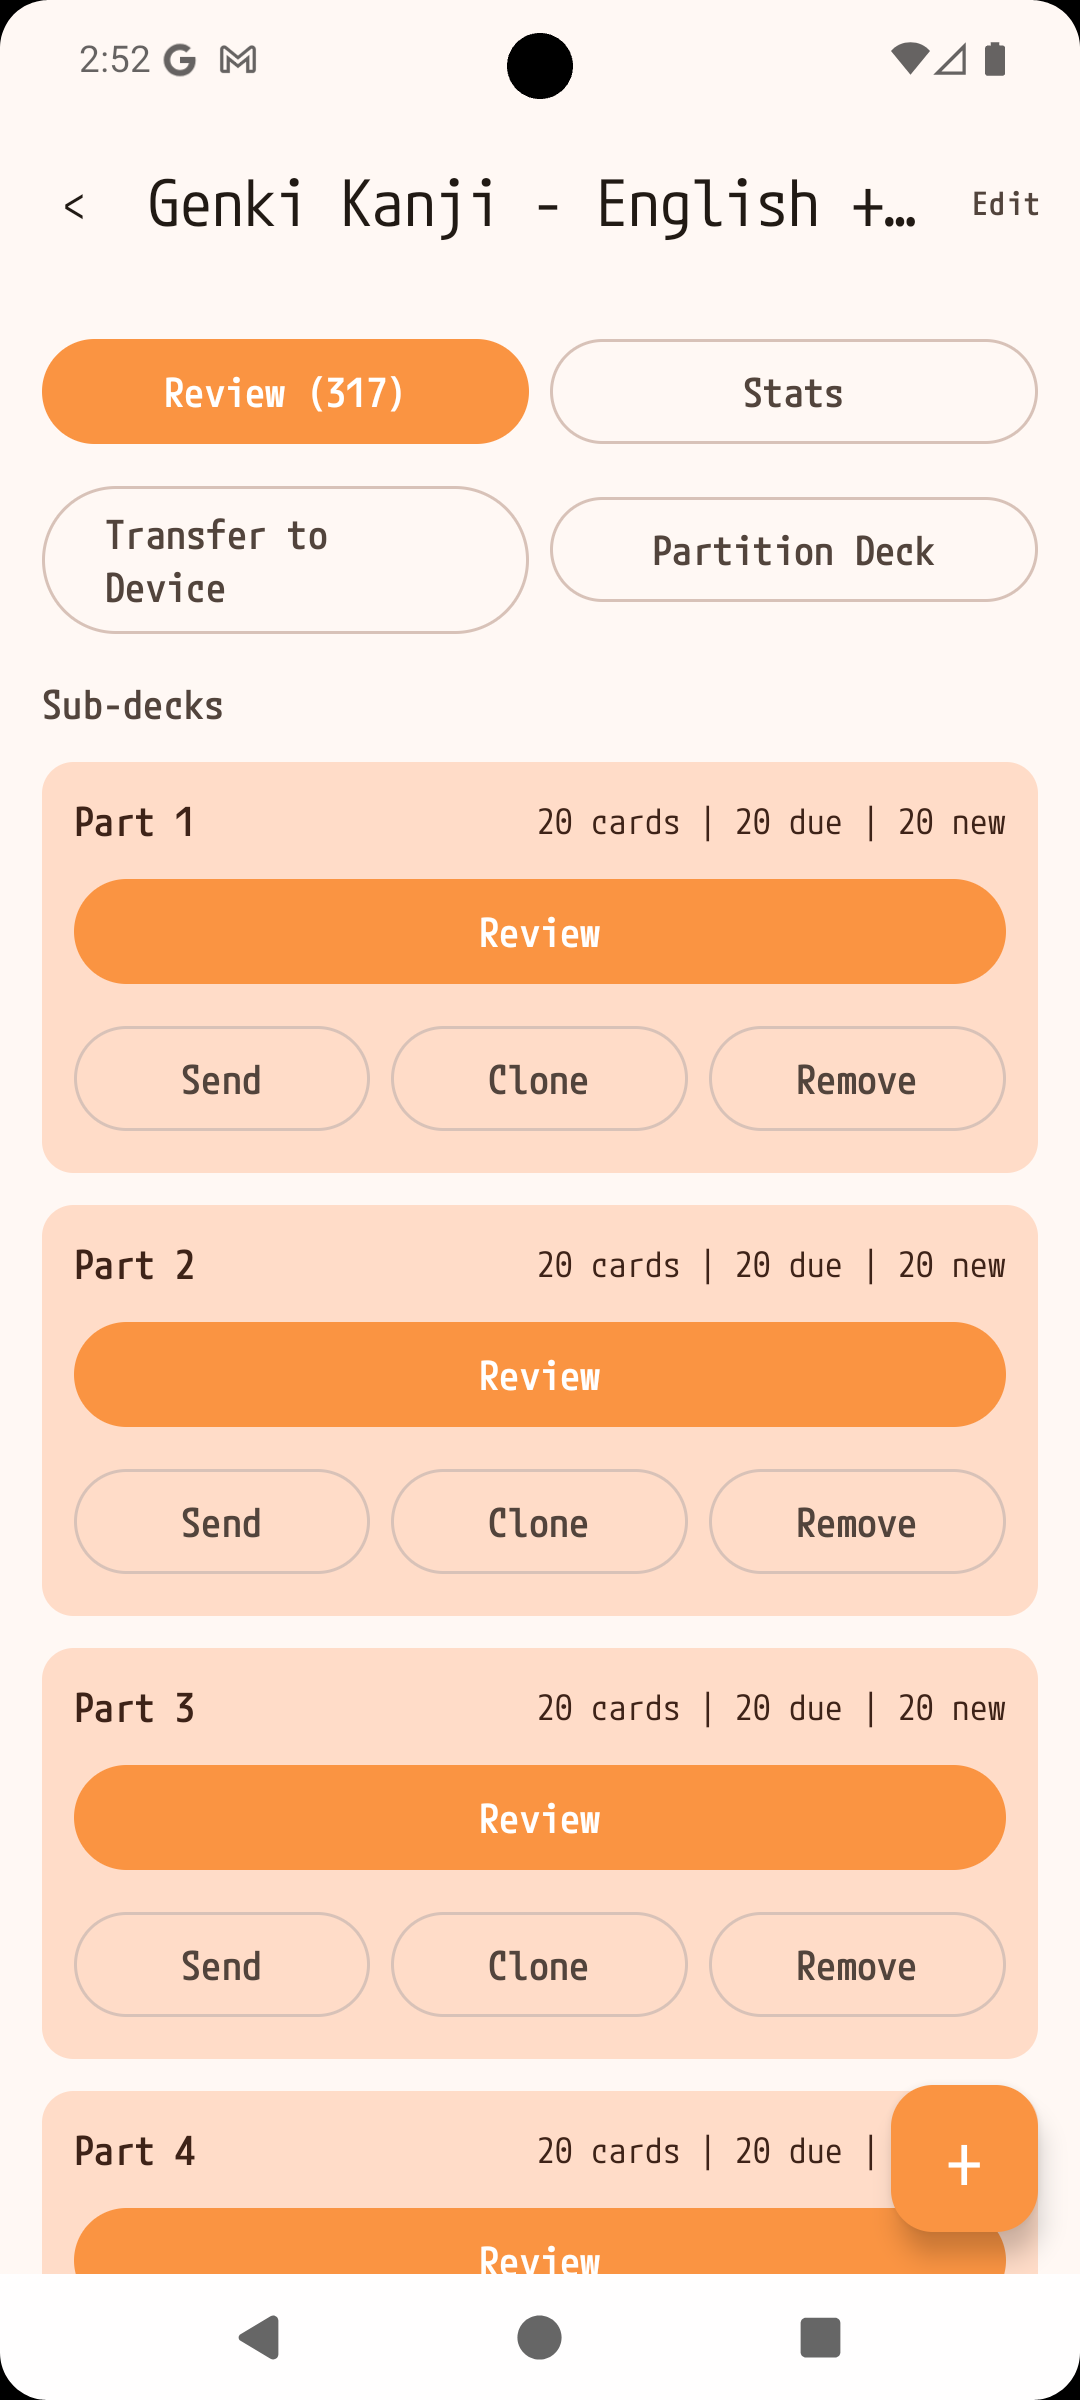
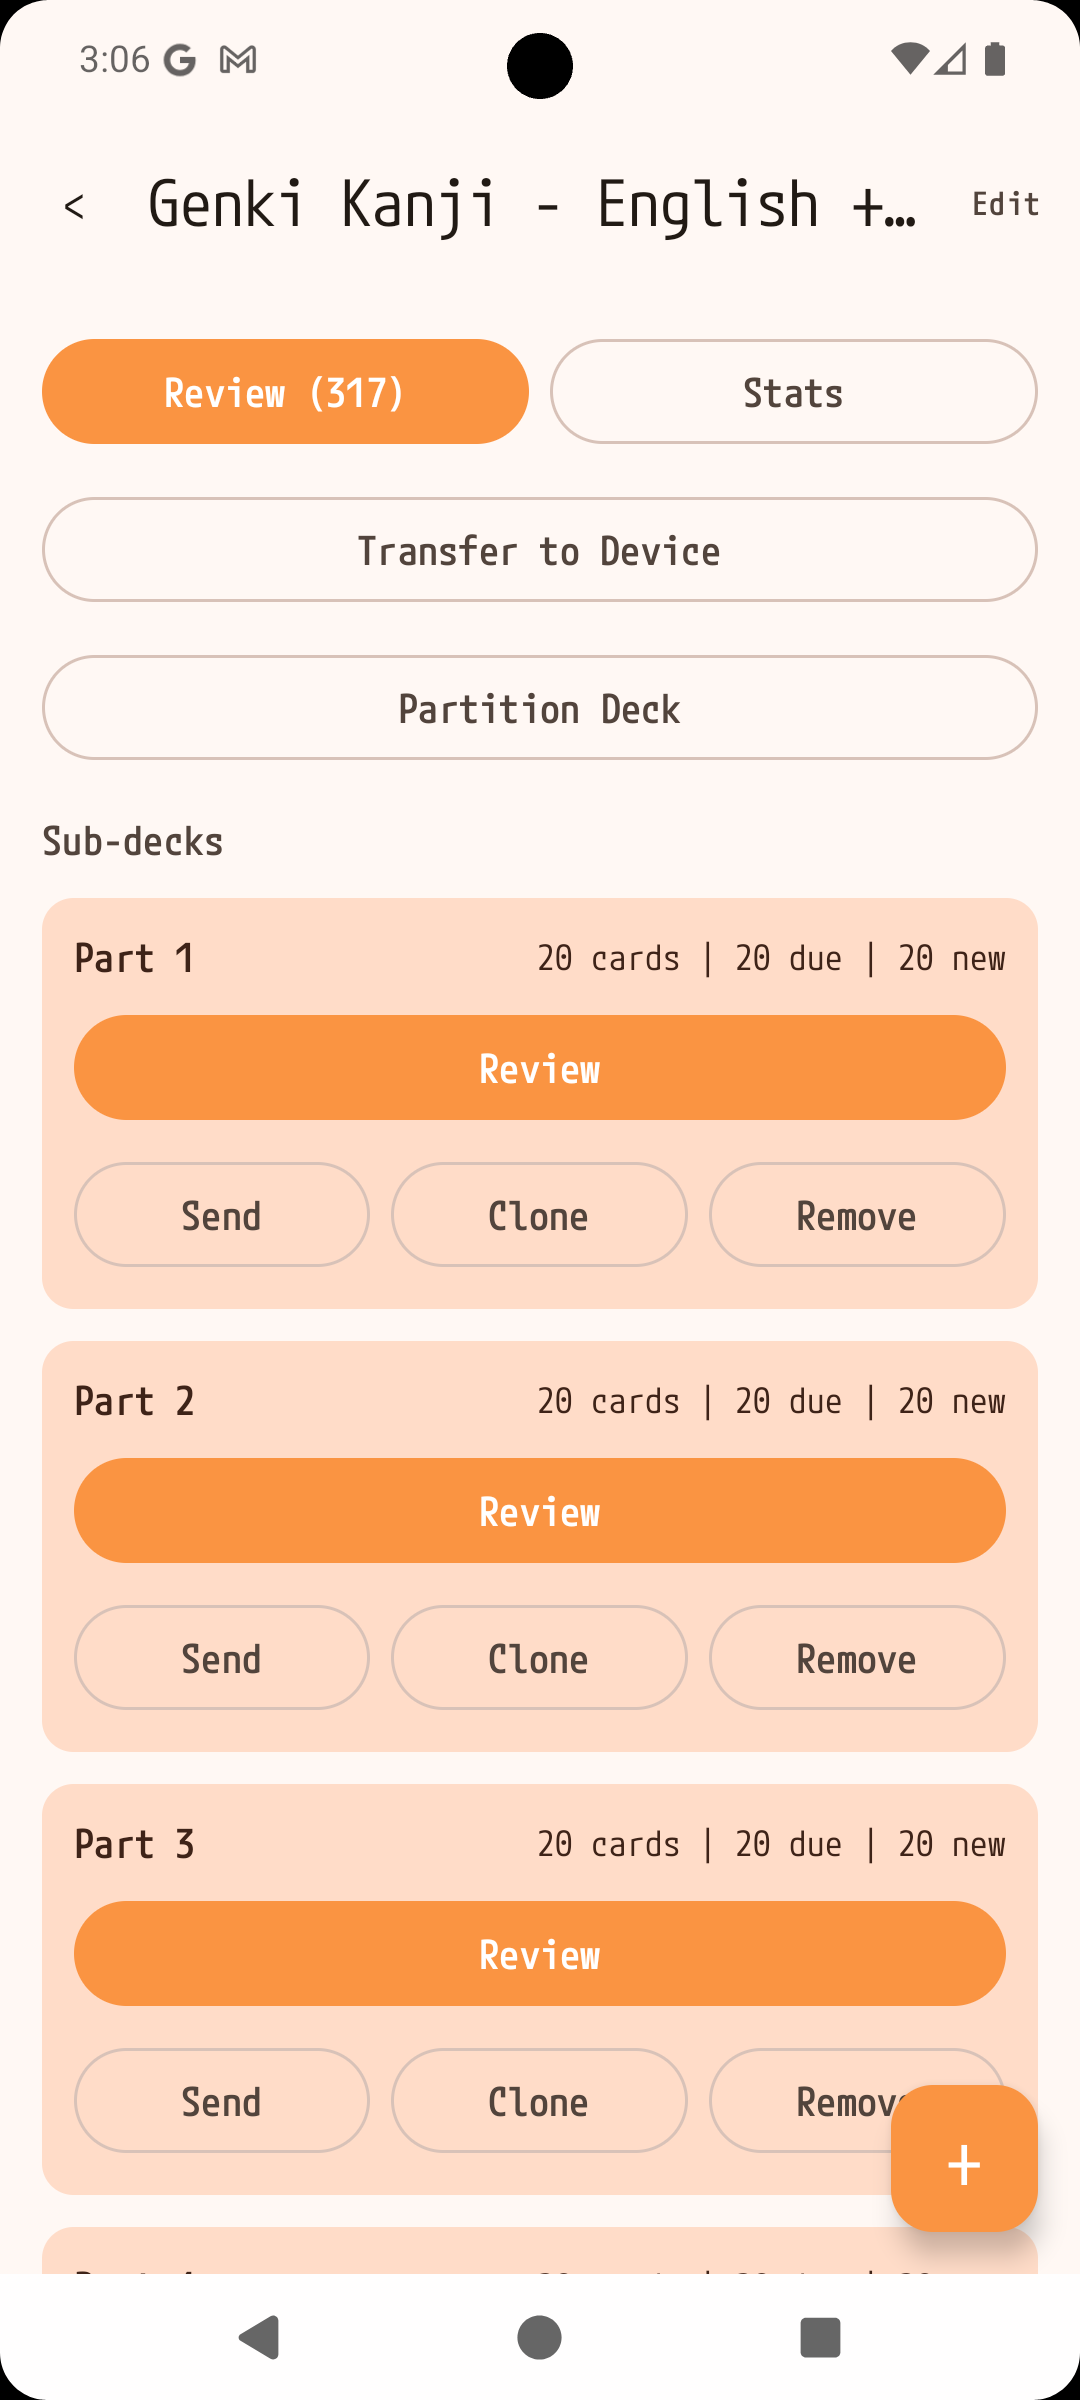
small ui fixes
Mirrored from f7cf7f3

diff --git a/composeApp/src/commonMain/kotlin/com/kado/app/presentation/screens/review/ReviewScreen.kt b/composeApp/src/commonMain/kotlin/com/kado/app/presentation/screens/review/ReviewScreen.kt
@@ -8,8 +8,11 @@ import androidx.compose.foundation.layout.Arrangement
 import androidx.compose.foundation.layout.Column
 import androidx.compose.foundation.layout.Spacer
 import androidx.compose.foundation.layout.fillMaxSize
+import androidx.compose.foundation.layout.fillMaxWidth
 import androidx.compose.foundation.layout.height
 import androidx.compose.foundation.layout.padding
+import androidx.compose.foundation.rememberScrollState
+import androidx.compose.foundation.verticalScroll
 import androidx.compose.material3.Button
 import androidx.compose.material3.MaterialTheme
 import androidx.compose.material3.Scaffold
@@ -58,22 +61,20 @@ fun ReviewScreen(
             uiState.currentCard != null -> {
                 val card = uiState.currentCard!!
                 Column(
-                    modifier = Modifier.fillMaxSize().padding(padding).padding(16.dp),
+                    modifier = Modifier
+                        .fillMaxSize()
+                        .verticalScroll(rememberScrollState())
+                        .padding(padding)
+                        .padding(16.dp),
                     verticalArrangement = Arrangement.SpaceBetween
                 ) {
-                    AnimatedContent(
-                        targetState = card.card.id,
-                        transitionSpec = { fadeIn(initialAlpha = 0.3f) togetherWith fadeOut(targetAlpha = 0.3f) }
-                    ) { cardId ->
-                        // Capture card for this animation state
-                        val animCard = if (cardId == card.card.id) card else card
-                        FlashCard(
-                            front = animCard.card.front,
-                            back = animCard.card.back,
-                            isFlipped = uiState.isFlipped,
-                            onFlip = vm::flip
-                        )
-                    }
+                    FlashCard(
+                        modifier = Modifier.align(Alignment.CenterHorizontally),
+                        front = card.card.front,
+                        back = card.card.back,
+                        isFlipped = uiState.isFlipped,
+                        onFlip = vm::flip
+                    )
                     if (uiState.hasBeenFlipped) {
                         RatingBar(
                             onRate = vm::rate,

diff --git a/composeApp/src/commonMain/kotlin/com/kado/app/presentation/screens/stats/StatsScreen.kt b/composeApp/src/commonMain/kotlin/com/kado/app/presentation/screens/stats/StatsScreen.kt
@@ -2,10 +2,14 @@ package com.kado.app.presentation.screens.stats
 
 import androidx.compose.foundation.layout.Column
 import androidx.compose.foundation.layout.Spacer
+import androidx.compose.foundation.layout.fillMaxSize
 import androidx.compose.foundation.layout.fillMaxWidth
 import androidx.compose.foundation.layout.height
 import androidx.compose.foundation.layout.padding
+import androidx.compose.foundation.rememberScrollState
+import androidx.compose.foundation.verticalScroll
 import androidx.compose.material3.AlertDialog
+import androidx.compose.material3.IconButton
 import androidx.compose.material3.MaterialTheme
 import androidx.compose.material3.OutlinedButton
 import androidx.compose.material3.Scaffold
@@ -60,7 +64,8 @@ fun StatsScreen(
                     "After rating a card \"Good\" for the first time, it moves here with a 1-day interval.\n\n" +
                     "Mature — Cards with an interval of 21+ days. These are well-known.\n\n" +
                     "Due Now — Total cards ready for review right now (new + overdue).",
-                    style = MaterialTheme.typography.bodyMedium
+                    style = MaterialTheme.typography.bodyMedium,
+                    modifier = Modifier.verticalScroll(rememberScrollState())
                 )
             },
             confirmButton = {
@@ -77,7 +82,7 @@ fun StatsScreen(
                 title = "Statistics",
                 onBack = onBack,
                 actions = {
-                    androidx.compose.material3.IconButton(onClick = { showHelpDialog = true }) {
+                    IconButton(onClick = { showHelpDialog = true }) {
                         Text("?", style = MaterialTheme.typography.titleMedium)
                     }
                 }
@@ -90,7 +95,11 @@ fun StatsScreen(
         }
 
         Column(
-            modifier = Modifier.padding(padding).padding(16.dp)
+            modifier = Modifier
+                .fillMaxSize()
+                .verticalScroll(rememberScrollState())
+                .padding(padding)
+                .padding(16.dp)
         ) {
             Text(
                 uiState.deck?.name ?: "",

diff --git a/composeApp/src/commonMain/kotlin/com/kado/app/presentation/screens/deck_detail/DeckDetailScreen.kt b/composeApp/src/commonMain/kotlin/com/kado/app/presentation/screens/deck_detail/DeckDetailScreen.kt
@@ -139,22 +139,20 @@ fun DeckDetailScreen(
             }
 
             item {
-                Row(
-                    modifier = Modifier.fillMaxWidth(),
-                    horizontalArrangement = Arrangement.spacedBy(8.dp)
+                OutlinedButton(
+                    onClick = onTransfer,
+                    modifier = Modifier.fillMaxWidth()
                 ) {
-                    OutlinedButton(
-                        onClick = onTransfer,
-                        modifier = Modifier.weight(1f)
-                    ) {
-                        Text("Transfer to Device")
-                    }
-                    OutlinedButton(
-                        onClick = onPartition,
-                        modifier = Modifier.weight(1f)
-                    ) {
-                        Text("Partition Deck")
-                    }
+                    Text("Transfer to Device")
+                }
+            }
+
+            item {
+                OutlinedButton(
+                    onClick = onPartition,
+                    modifier = Modifier.fillMaxWidth()
+                ) {
+                    Text("Partition Deck")
                 }
             }
 

diff --git a/composeApp/src/commonMain/kotlin/com/kado/app/presentation/components/FlashCard.kt b/composeApp/src/commonMain/kotlin/com/kado/app/presentation/components/FlashCard.kt
@@ -9,6 +9,7 @@ import androidx.compose.foundation.layout.fillMaxSize
 import androidx.compose.foundation.layout.fillMaxWidth
 import androidx.compose.foundation.layout.height
 import androidx.compose.foundation.layout.padding
+import androidx.compose.foundation.layout.widthIn
 import androidx.compose.foundation.shape.RoundedCornerShape
 import androidx.compose.foundation.text.selection.SelectionContainer
 import androidx.compose.material3.Card
@@ -52,7 +53,9 @@ fun FlashCard(
 
     Card(
         modifier = modifier
+            .widthIn(max = 384.dp)
             .fillMaxWidth()
+            .padding(horizontal = 8.dp)
             .height(280.dp)
             .pointerInput(Unit) {
                 detectVerticalDragGestures(
